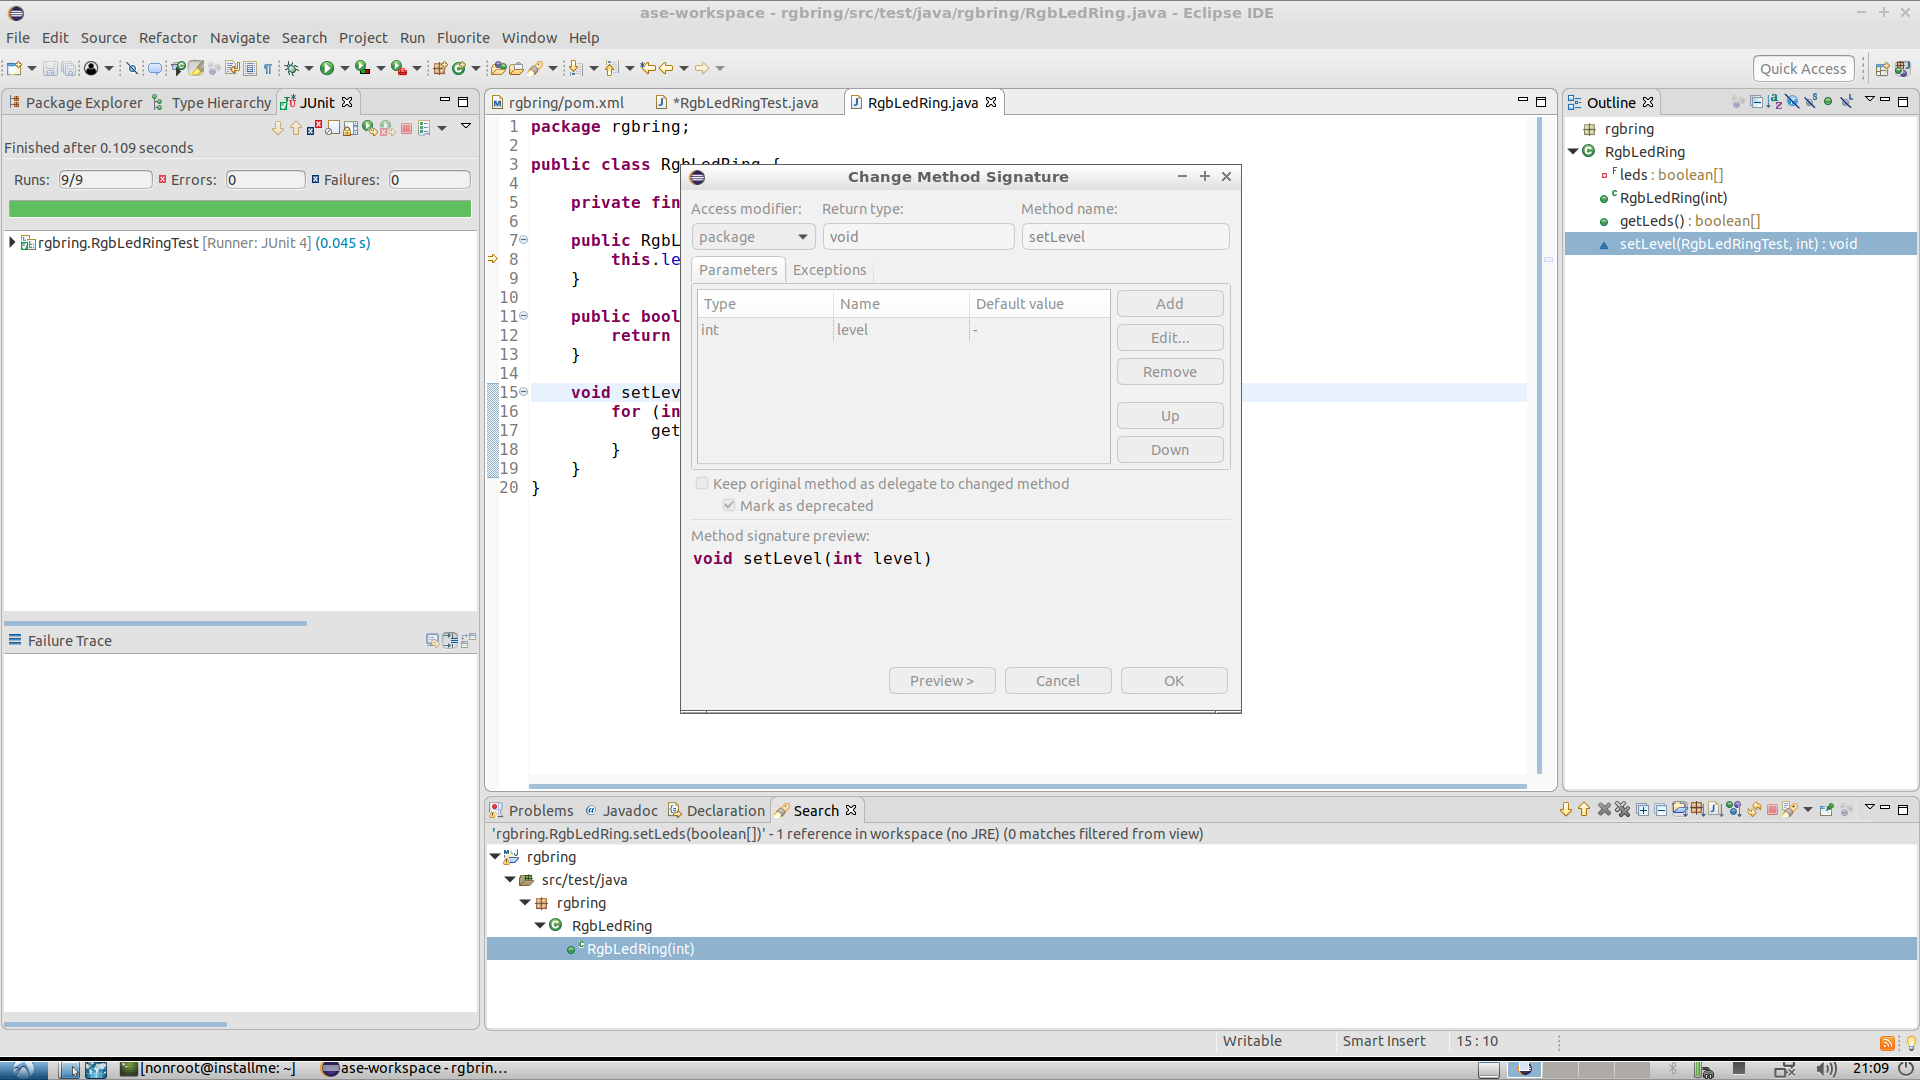
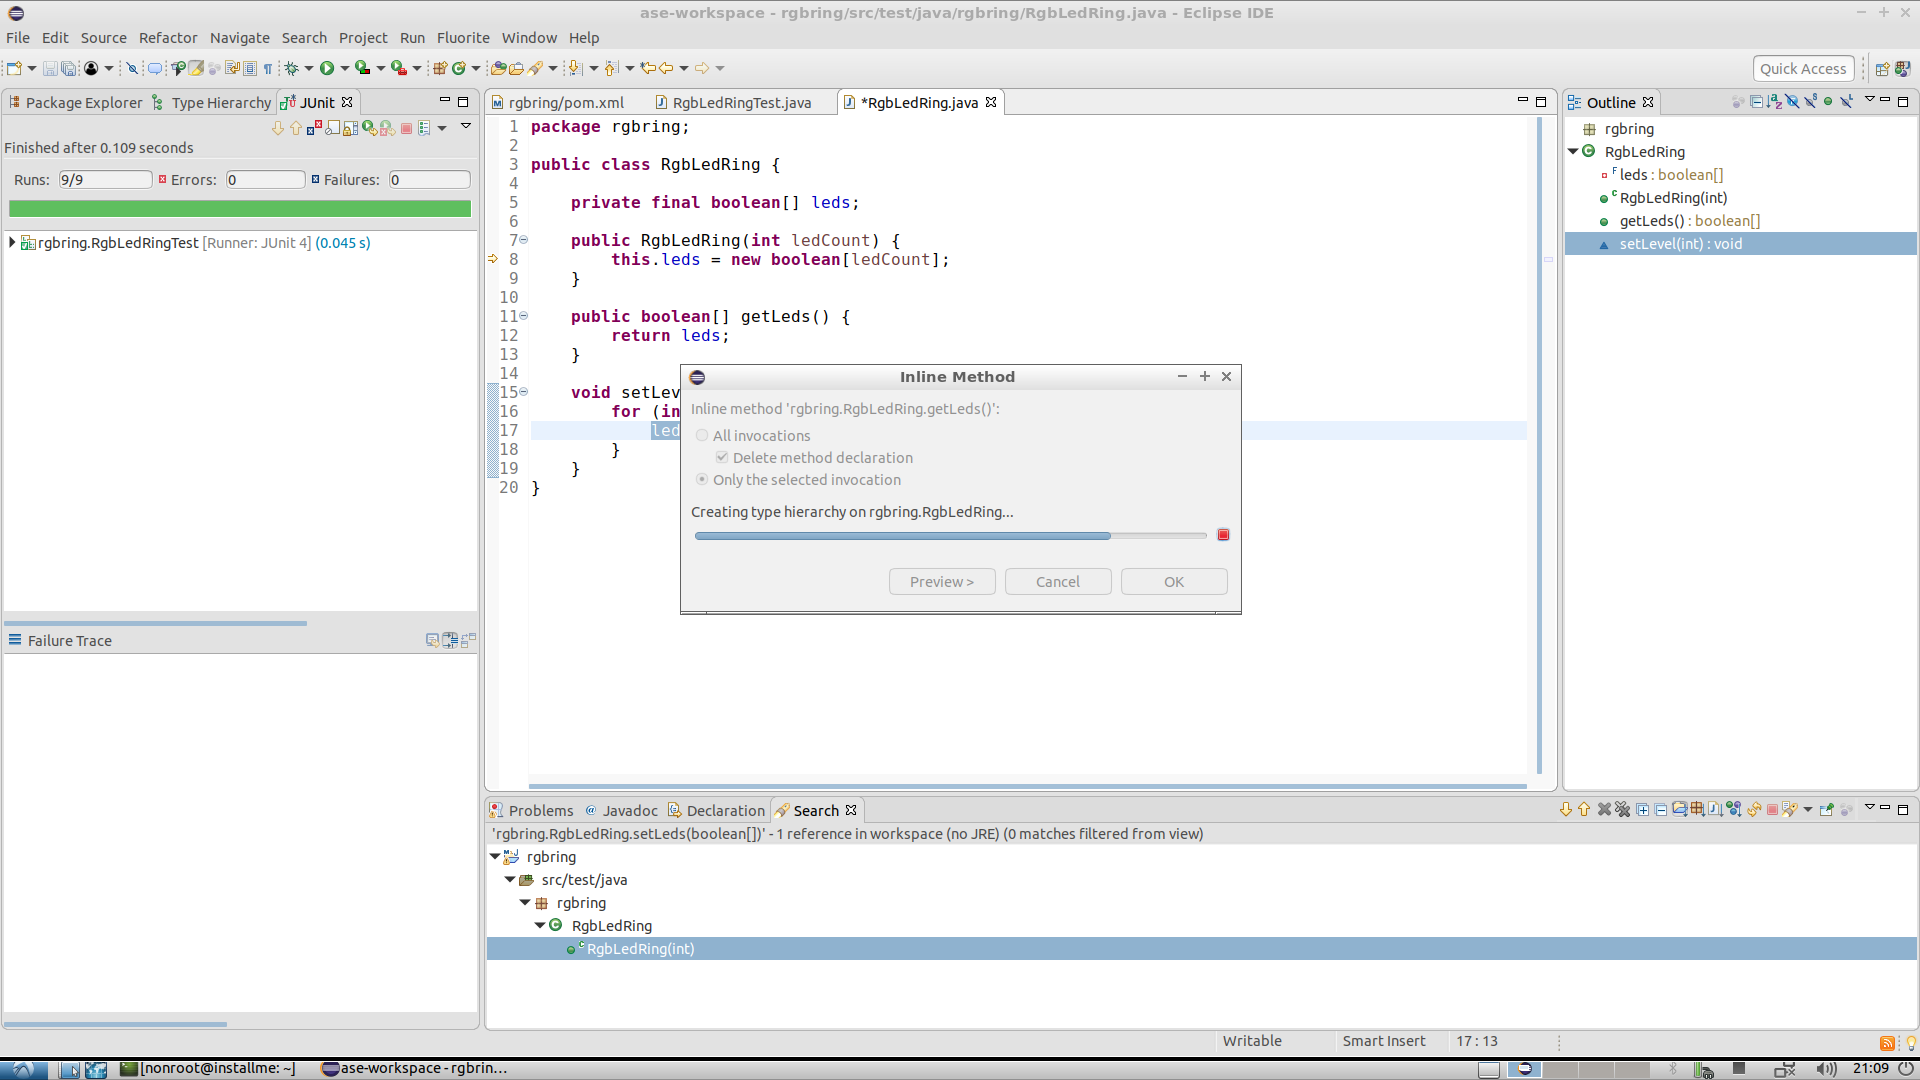
autocommit on change

diff --git a/src/test/java/rgbring/RgbLedRing.java b/src/test/java/rgbring/RgbLedRing.java
@@ -14,7 +14,7 @@ public class RgbLedRing {
 
 	void setLevel(int level) {
 		for (int i = 0; i < getLeds().length; i++) {
-			getLeds()[i] = level > 100 / getLeds().length * i;
+			leds[i] = level > 100 / getLeds().length * i;
 		}
 	}
 }
